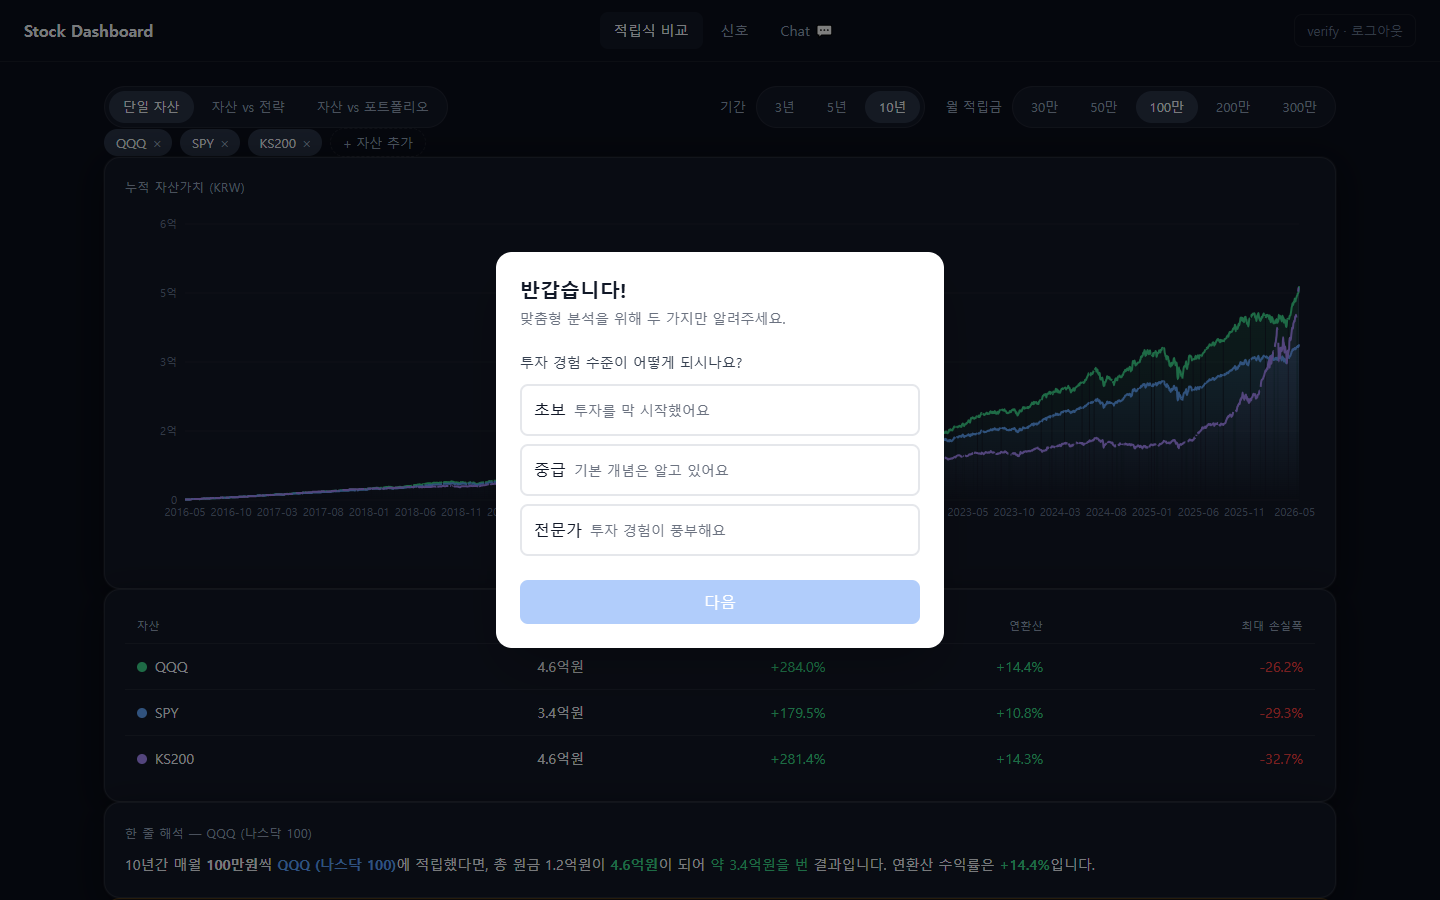
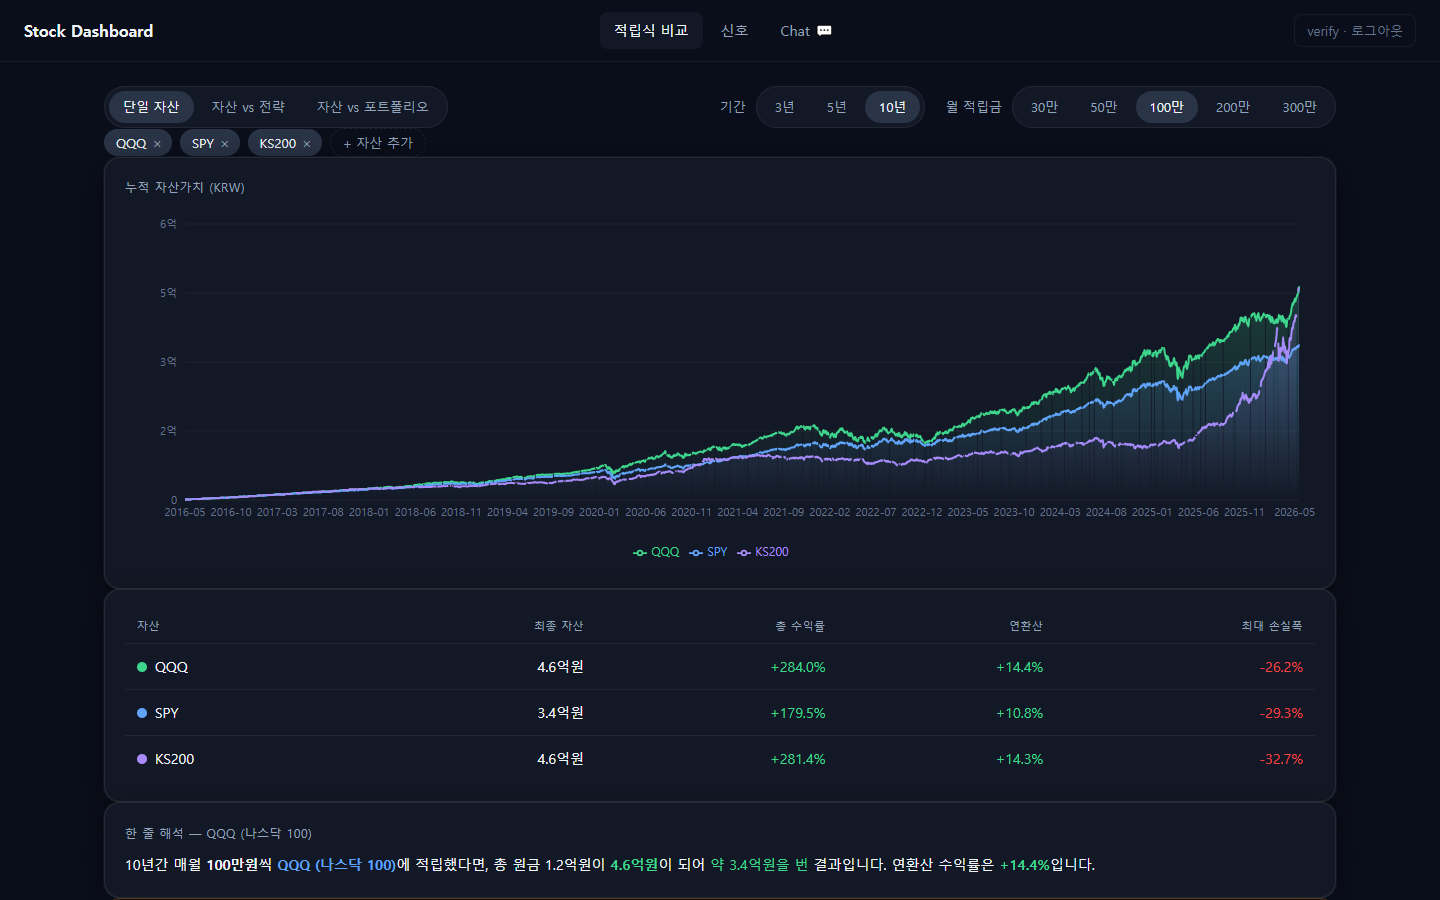
[silver-rev1-phase3] fix: 검증 스크린샷 수정 (온보딩 사전완료 + waitForFunction 탭 대기)

diff --git a/.claude/skills/e2e-verify/SKILL.md b/.claude/skills/e2e-verify/SKILL.md
@@ -134,6 +134,17 @@ async function shot(page, filename) {
   log(`📸 ${filename}`);
 }
 
+// ── 온보딩 모달 사전 제거 ────────────────────────────────────────────────────
+// IceBreakingModal은 profile.onboarding_completed=false 일 때 매 페이지 진입마다 표시됨.
+// Escape/클릭으로는 닫히지 않으므로 API로 먼저 완료 처리 필수.
+async function completeOnboarding(accessToken) {
+  await fetch(`${BACKEND_URL}/v1/profile/ice-breaking`, {
+    method: "POST",
+    headers: { "Content-Type": "application/json", "Authorization": `Bearer ${accessToken}` },
+    body: JSON.stringify({ experience_level: "intermediate", decision_style: "logic" }),
+  });
+}
+
 // ── Auth: API 로그인 → localStorage 주입 ──────────────────────────────────────
 async function getTokens(email, password) {
   const res = await fetch(`${BACKEND_URL}/v1/auth/login`, {
@@ -193,10 +204,25 @@ async function main() {
     log(`차트 카드: ${chartVisible}`);
     await shot(page, "step-2-tab-a-desktop.png");
 
-    // 탭 전환 예시
+    // 탭 전환 — 로딩이 끝난 뒤 촬영 (단순 delay는 부족; waitForFunction 필수)
+    // 핵심: waitForSelector(".silver-chart-card")는 이전 탭 카드를 즉시 감지해 버림
+    // → loading이 없어지고 chart가 있을 때까지 폴링
+    async function waitForTabResult(page) {
+      await page.waitForFunction(
+        () => {
+          const loading = document.querySelector(".silver-loading");
+          const chart   = document.querySelector(".silver-chart-card");
+          const error   = document.querySelector(".silver-error");
+          return !loading && (chart || error);
+        },
+        { timeout: 30000 }
+      ).catch(() => {});
+      await delay(1000);
+    }
+
     const tabs = await page.$$('button[role="tab"]');
-    if (tabs[1]) { await tabs[1].click(); await delay(3000); await shot(page, "step-2-tab-b.png"); }
-    if (tabs[2]) { await tabs[2].click(); await delay(3000); await shot(page, "step-2-tab-c.png"); }
+    if (tabs[1]) { await tabs[1].click(); await waitForTabResult(page); await shot(page, "step-2-tab-b.png"); }
+    if (tabs[2]) { await tabs[2].click(); await waitForTabResult(page); await shot(page, "step-2-tab-c.png"); }
 
     // 모바일 뷰포트
     await page.setViewport({ width: 768, height: 900 });
@@ -249,9 +275,9 @@ cd /tmp/pw_test && node verify-<step>.cjs
 |------|------|------|
 | `ERR_FAILED` CORS 에러 | localhost 간 CORS | `--disable-web-security` + `--user-data-dir` 추가 |
 | 인증 리다이렉트 | localStorage 주입 시점 | `goto(FRONTEND_URL)` 후 inject → 이후 대상 URL 이동 |
-| 온보딩 모달 차단 | 신규 세션 Chat 모달 | `page.keyboard.press("Escape")` 또는 배경 클릭 |
-| `waitForSelector` timeout | API 느림 또는 에러 | timeout 20~25초, `.catch(()=>{})` 로 timeout 무시 후 스크린샷 |
-| 탭 클릭 후 변화 없음 | 렌더링 지연 | 클릭 후 `delay(3000~5000)` |
+| 온보딩 모달 차단 | `profile.onboarding_completed=false` → 매 페이지마다 재표시, Escape 무효 | 토큰 획득 후 `POST /v1/profile/ice-breaking` 호출로 사전 완료 처리 |
+| 탭 스크린샷 전부 동일 | `waitForSelector(".silver-chart-card")`가 이전 탭 카드를 즉시 감지 | `waitForFunction`으로 loading 없어지고 chart 있을 때까지 폴링 |
+| `waitForSelector` timeout | API 느림 또는 에러 | timeout 20~30초, `.catch(()=>{})` 로 timeout 무시 후 스크린샷 |
 
 ---
 
